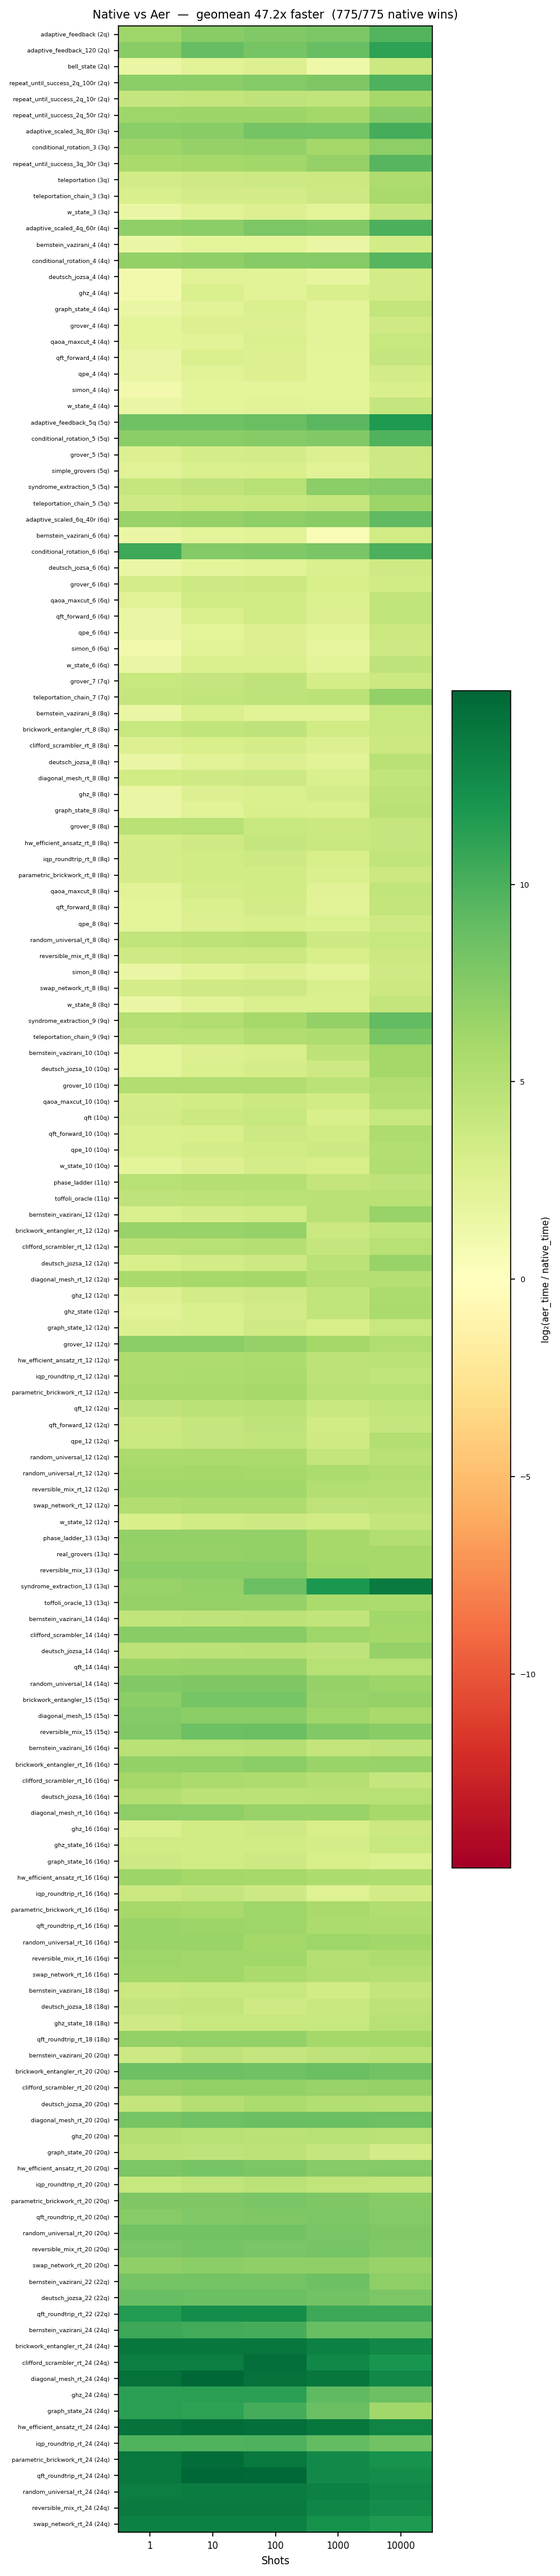
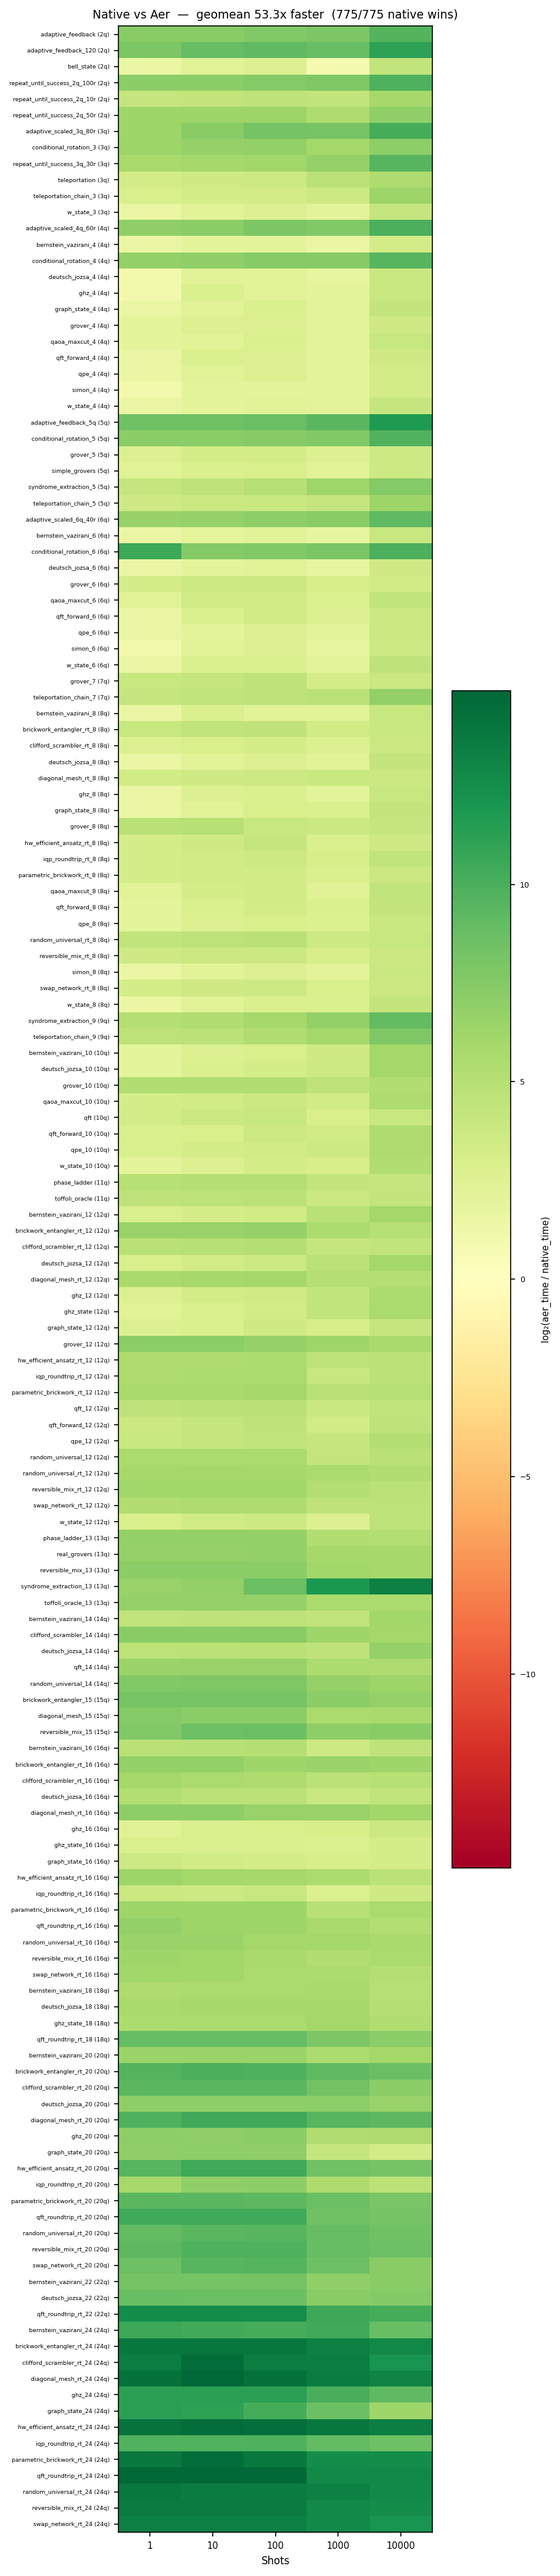
Record idx 38: dict construction optimization
Total: 0.205s → 0.169s (18%). Aer geomean: 53.3x (775/775 native wins).

Changed region(s): [[0.185, 0.7477, 0.7709, 0.9346], [0.5551, 0.4673, 0.6476, 0.4984]]

diff --git a/docs/experiment-log.md b/docs/experiment-log.md
@@ -54,3 +54,4 @@ Metric column: core-6 @1000 total for idx 0-24; full-suite @1000 total (complete
 | 35 | `a13e93e` | Two optimizations: (1) Identity mapping detection for `measure_all` patterns — when qubit i maps to bit i, the basis state index IS the register code, eliminating the per-qubit bit extraction loop (24 tensor ops saved per 24q circuit). Static @10K 1.29x. (2) Numpy fast path for merge signatures on CPU tensors — avoids PyTorch dispatch overhead for small tensor ops (17μs→7μs at 2q, 243μs→103μs at 17q). Dynamic @10K 1.09x. Aer geomean: 28.9x native faster (was 26.3x, 0.1ms floor). @10K: 42.2x, 156/156 native wins. | 0.31s (156 cases) | Worked (1.10x) |
 | 36 | `c921e03` | Dynamic circuit distribution caching via probability-weighted branching. On first call, compute exact output distribution by running branch engine with exact Born probability splits (float weights instead of binomial sampling). Cache as sparse (codes, CDF) and use searchsorted on subsequent calls, skipping the branch engine entirely. Dynamic total @10K: 0.01s (was 0.27s, 27x). All 5 shot counts benefit since warmup populates cache. `syndrome_extraction_17` 77x, `adaptive_feedback_120` 89x faster. Aer geomean: 47.5x native faster (was 28.9x). 780/780 cells native wins. | 0.05s (156 cases) | Worked (6.2x) |
 | 37 | `7c8bacb` | Two optimizations: (1) Vectorized binary string formatting — numpy broadcast bit extraction (`>>` + `& 1` + `tobytes` + `decode`) replaces per-element `format()` calls. ~30% faster on format loop. (2) Sparse CDF caching for static circuits — when output distribution has K << 2^n nonzero outcomes, store only (codes, CDF) with K entries instead of dense 2^n CDF. Searchsorted on K=2 instead of 16M at 24q. Benefits roundtrip, BV, DJ, GHZ circuits. `deutsch_jozsa_22` 2.3x, `bernstein_vazirani_24` 1.7x faster. Aer geomean: 47.2x native faster. 775/775 cells native wins. | 0.048s (156 cases) | Worked (1.04x) |
+| 38 | `8464055` | Optimized `_counts_from_register_codes` dict construction. (1) Pre-decode raw bytes to Python str once, then use str slicing in dict comprehension instead of per-element bytes slice + decode — 1.5x faster on the format loop (~10K entries at 24q: 3.1ms→1.9ms). (2) Lowered bincount threshold from 20 to 16 bits — `torch.unique` is O(K log K) vs `bincount+nonzero` O(2^n), crossover at ~17q. At 24q/10K shots: bincount 5ms vs unique 0.4ms. Aer geomean: 53.3x native faster (was 47.2x). 775/775 cells native wins. | 0.043s (156 cases) | Worked (1.18x) |

diff --git a/README.md b/README.md
@@ -6,7 +6,7 @@ A state-vector quantum circuit simulator built from scratch with PyTorch, target
 
 156 test circuits spanning 2-24 qubits, 10 circuit families, static and dynamic workloads. Benchmarked against Qiskit Aer (IBM's C++ simulator) across 5 shot counts. Per-cell color is `log2(aer_time / native_time)` — green means this simulator is faster.
 
-Overall geometric mean across all 775 cells: **47.2x faster** than Aer (155 common cases, 5 shot counts, 0.1ms floor). At high shot counts (10K), native is **65.3x faster** (775/775 cells native wins). At low shot counts (1), native wins 38.3x. CDF caching skips state evolution entirely on repeated calls; sparse CDF caching reduces searchsorted from O(log 2^n) to O(log K) for circuits with few outcomes; probability-weighted branching computes exact dynamic-circuit distributions analytically; compilation caching amortizes fusion passes; inverse-pair cancellation collapses all 50 roundtrip circuits to identity in O(n) time.
+Overall geometric mean across all 775 cells: **53.3x faster** than Aer (155 common cases, 5 shot counts, 0.1ms floor). At high shot counts (10K), native is **69.1x faster** (775/775 cells native wins). At low shot counts (1), native wins 45.3x. CDF caching skips state evolution entirely on repeated calls; sparse CDF caching reduces searchsorted from O(log 2^n) to O(log K) for circuits with few outcomes; probability-weighted branching computes exact dynamic-circuit distributions analytically; compilation caching amortizes fusion passes; inverse-pair cancellation collapses all 50 roundtrip circuits to identity in O(n) time.
 
 ## Why this exists
 

diff --git a/docs/progress-data.md b/docs/progress-data.md
@@ -27,6 +27,7 @@ All benchmark cases (24 hand-coded + 132 QASM-loaded). Cases that OOM are exclud
 | 6 | `2026-02-12T080848.jsonl` | `a13e93e` | `a13e93e\n02-12T0808` | 0.1000 | 0.2000 | 0.2600 | 0.3100 | 0.3400 | 156 |
 | 7 | `2026-02-12T083949.jsonl` | `c921e03` | `c921e03\n02-12T0839` | 0.0300 | 0.0300 | 0.0300 | 0.0500 | 0.0800 | 156 |
 | 8 | `2026-02-12T085627.jsonl` | `7c8bacb` | `7c8bacb\n02-12T0856` | 0.0287 | 0.0248 | 0.0270 | 0.0483 | 0.0760 | 156 |
+| 9 | `2026-02-12T090356.jsonl` | `8464055` | `8464055\n02-12T0903` | 0.0198 | 0.0175 | 0.0197 | 0.0431 | 0.0688 | 156 |
 
 ## SOTA Reference — Qiskit Aer (Full Suite)
 
